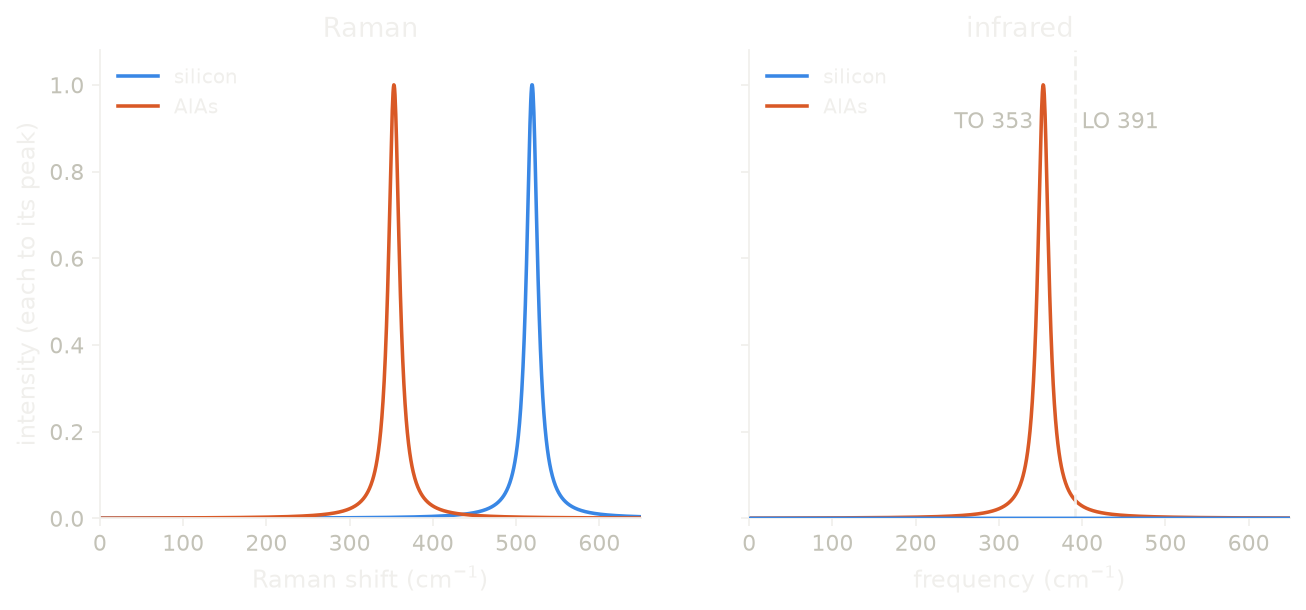
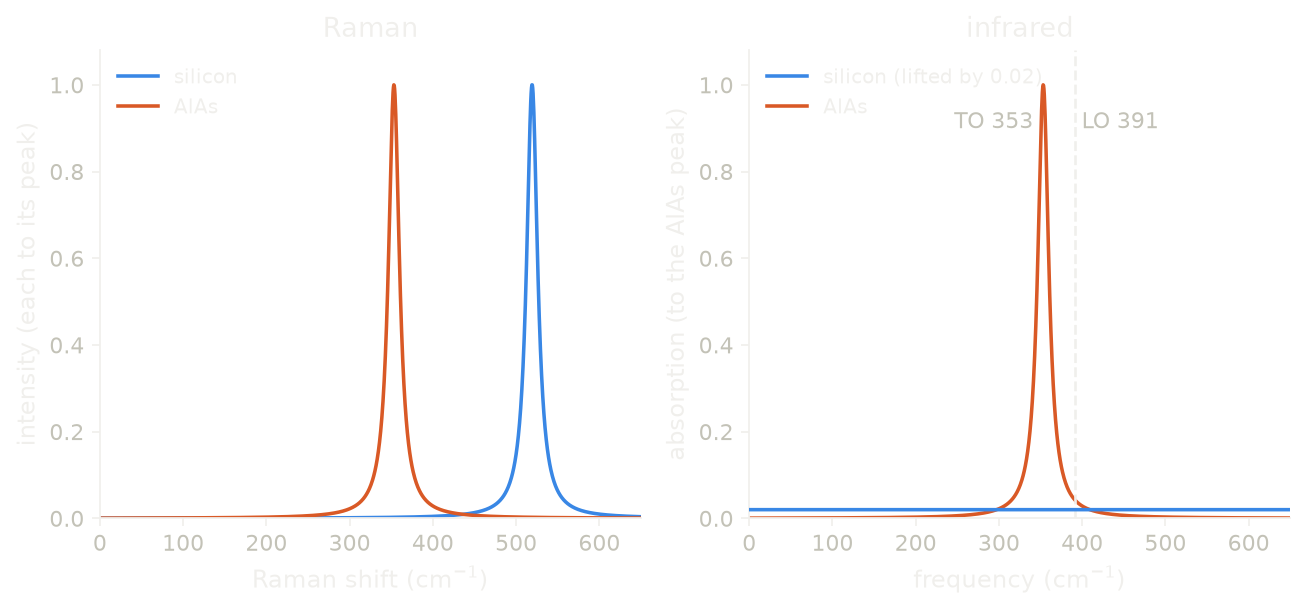
User guide: the Raman page, with the symmetry average and silicon lifted
The zeros of the AlAs Raman tensor are now said to come from the average over
the operations of the crystal, which the code applies to every Raman tensor,
while the translational sum, 2.8e-4 of the scale, is not imposed by it. The
Lyddane-Sachs-Teller paragraph now says that for one polar mode the relation is
exact, so 1.22742 on both sides checks the charges and not the convergence.
The infrared panel draws silicon lifted by 0.02 so that its zero line can be
seen, and has its own y label. Silicon is said to have no one-phonon infrared
absorption rather than to be transparent.

Claude-Session: https://claude.ai/code/session_019DWgZZ3tcJAt9KKRHxySvF

Changed region(s): [[0.5207, 0.8098, 0.9801, 0.8721], [0.5207, 0.4049, 0.5819, 0.4361], [0.5513, 0.1246, 0.5819, 0.1557]]

diff --git a/docs/figures/raman_spectrum/plot.py b/docs/figures/raman_spectrum/plot.py
@@ -15,7 +15,7 @@ def curve(freq, activity):
 
 
 def draw():
-    fig, (a, b) = style.figure(2, sharey=True)
+    fig, (a, b) = style.figure(2)
     for k, (name, key) in enumerate([("silicon", "si"), ("AlAs", "alas")]):
         raman = curve(d[key + "_freq"], d[key + "_raman"])
         a.plot(w, raman / raman.max(), color=style.color(k), label=name)
@@ -27,13 +27,14 @@ def draw():
     ir_alas = curve(d["alas_freq"], d["alas_ir"])
     ir_si = curve(d["si_freq"], d["si_ir"])
     top = ir_alas.max()
-    b.plot(w, ir_si / top, color=style.color(0), label="silicon", zorder=3)
+    b.plot(w, ir_si / top + 0.02, color=style.color(0), label="silicon (lifted by 0.02)", zorder=3)
     b.plot(w, ir_alas / top, color=style.color(1), label="AlAs")
     to, lo = d["alas_freq"].max(), d["lo_freq"].max()
     b.axvline(lo, **style.reference())
     b.text(to - 12, 0.9, "TO %.0f" % to, ha="right", color=style.ink2())
     b.text(lo + 8, 0.9, "LO %.0f" % lo, ha="left", color=style.ink2())
     b.set_xlabel(r"frequency (cm$^{-1}$)")
+    b.set_ylabel("absorption (to the AlAs peak)")
     b.set_title("infrared", color=style.ink())
     b.legend(loc="upper left")
     for ax in (a, b):

diff --git a/docs/guide/raman.md b/docs/guide/raman.md
@@ -50,8 +50,9 @@ move, in inverse bohr, and `raman.epsilon` is the dielectric tensor it was taken
 at. AlAs has the point group $\bar 4 3m$, where a tensor of rank three has only
 one independent component, the one with three different indices. So moving Al
 along $x$ changes only $\varepsilon_{yz}$, by $-3.137$ per bohr, and every other
-entry is zero to $10^{-16}$. Nothing imposes these zeros, they are what the
-calculation gives. Moving the whole crystal cannot change $\varepsilon$, so the
+entry is zero to $10^{-16}$. The code averages the tensors over the operations
+of the crystal, so these zeros are exact by construction. The sum over the atoms
+is not imposed by this average. Moving the whole crystal cannot change $\varepsilon$, so the
 tensors of the two atoms should add up to zero. Here they cancel to
 $2.8\times10^{-4}$ of their size, which is the error of the plane-wave basis. The
 code reports this sum and does not force it to zero.
@@ -133,7 +134,7 @@ measured, which is the line every Raman spectrometer is calibrated on. It is
 Raman active and infrared silent. The reason is symmetry: one operation of the
 crystal maps one silicon atom onto the other, so the two atoms have the same
 $Z^*$, and the optical mode moves them against each other, so its dipole is zero.
-This is why silicon is transparent in the infrared. The acoustic triplet again
+This is why silicon has no one-phonon infrared absorption. The acoustic triplet again
 carries the residue of the sum rules, here 5.68 cm$^{-1}$ and an infrared
 activity of 2.35, because the two equal $Z^*$ of silicon are not exactly zero on
 this basis.
@@ -179,7 +180,7 @@ leaves the two transverse ones alone, so a polar crystal has two optical
 frequencies at $\Gamma$, $\omega_{\rm TO}$ and $\omega_{\rm LO}$. In silicon
 $Z^*$ is zero by symmetry, so the term is zero and there is one line. The two
 frequencies are what infrared reflectivity and Raman scattering measure, and the
-band between them is where a polar crystal reflects all the light. We get it with
+band between them is where a polar crystal reflects almost all the light. We get it with
 `loto_direction`, the direction $\hat{\mathbf q}$ in cartesian coordinates:
 
 ```python
@@ -252,10 +253,11 @@ eps_0 / eps_inf   1.22742
 
 `lo.static_permittivity` is $\varepsilon^0$ and `lo.ionic_permittivity` is the
 part of it that comes from the polar modes, both as $3\times3$ tensors. The
-relation holds to every printed digit, and nothing in the code imposes it,
-since the left side is a sum of mode dipoles over $\omega^2$ and the right side
-is a ratio of two frequencies. The two dielectric constants are not converged. This cell
-has a cutoff of 10 Ry and a $4\times4\times4$ mesh that contains $\Gamma$, and it
+relation holds to every printed digit. For a crystal with one polar mode this
+relation is exact, so here it checks that the LO frequency and $\varepsilon^0$
+are built from the same charges and the same constants. It does not tell us that
+either number is converged. The two dielectric constants are not converged. This
+cell has a cutoff of 10 Ry and a $4\times4\times4$ mesh that contains $\Gamma$, and it
 gives 13.00 and 15.96, against 8.16 and 10.06 measured. Their ratio is much
 better, 1.227 against 1.233 from the two measured constants, because the error
 that pushes one constant up pushes the other up too.
@@ -273,7 +275,7 @@ infrared panel both crystals are on one scale. AlAs absorbs at its TO frequency,
 353 cm$^{-1}$. The dashed line is its LO frequency, 391 cm$^{-1}$, which the
 absorption does not show. It is the upper edge of the band between
 $\omega_{\rm TO}$ and $\omega_{\rm LO}$ where the crystal reflects the light,
-and a reflectivity measurement sees it. Silicon is a flat line at zero. The AlAs spectra of this
+and a reflectivity measurement sees it. Silicon is a flat line at zero, which we lift by 0.02 so that it can be seen. The AlAs spectra of this
 figure are computed with `neutralize=True`, and this changes the infrared
 activity of the optical mode from 5.92 to 7.58 per mode, so the sum rule of the
 charges matters for the intensities as well as for the LO frequency. The figure
